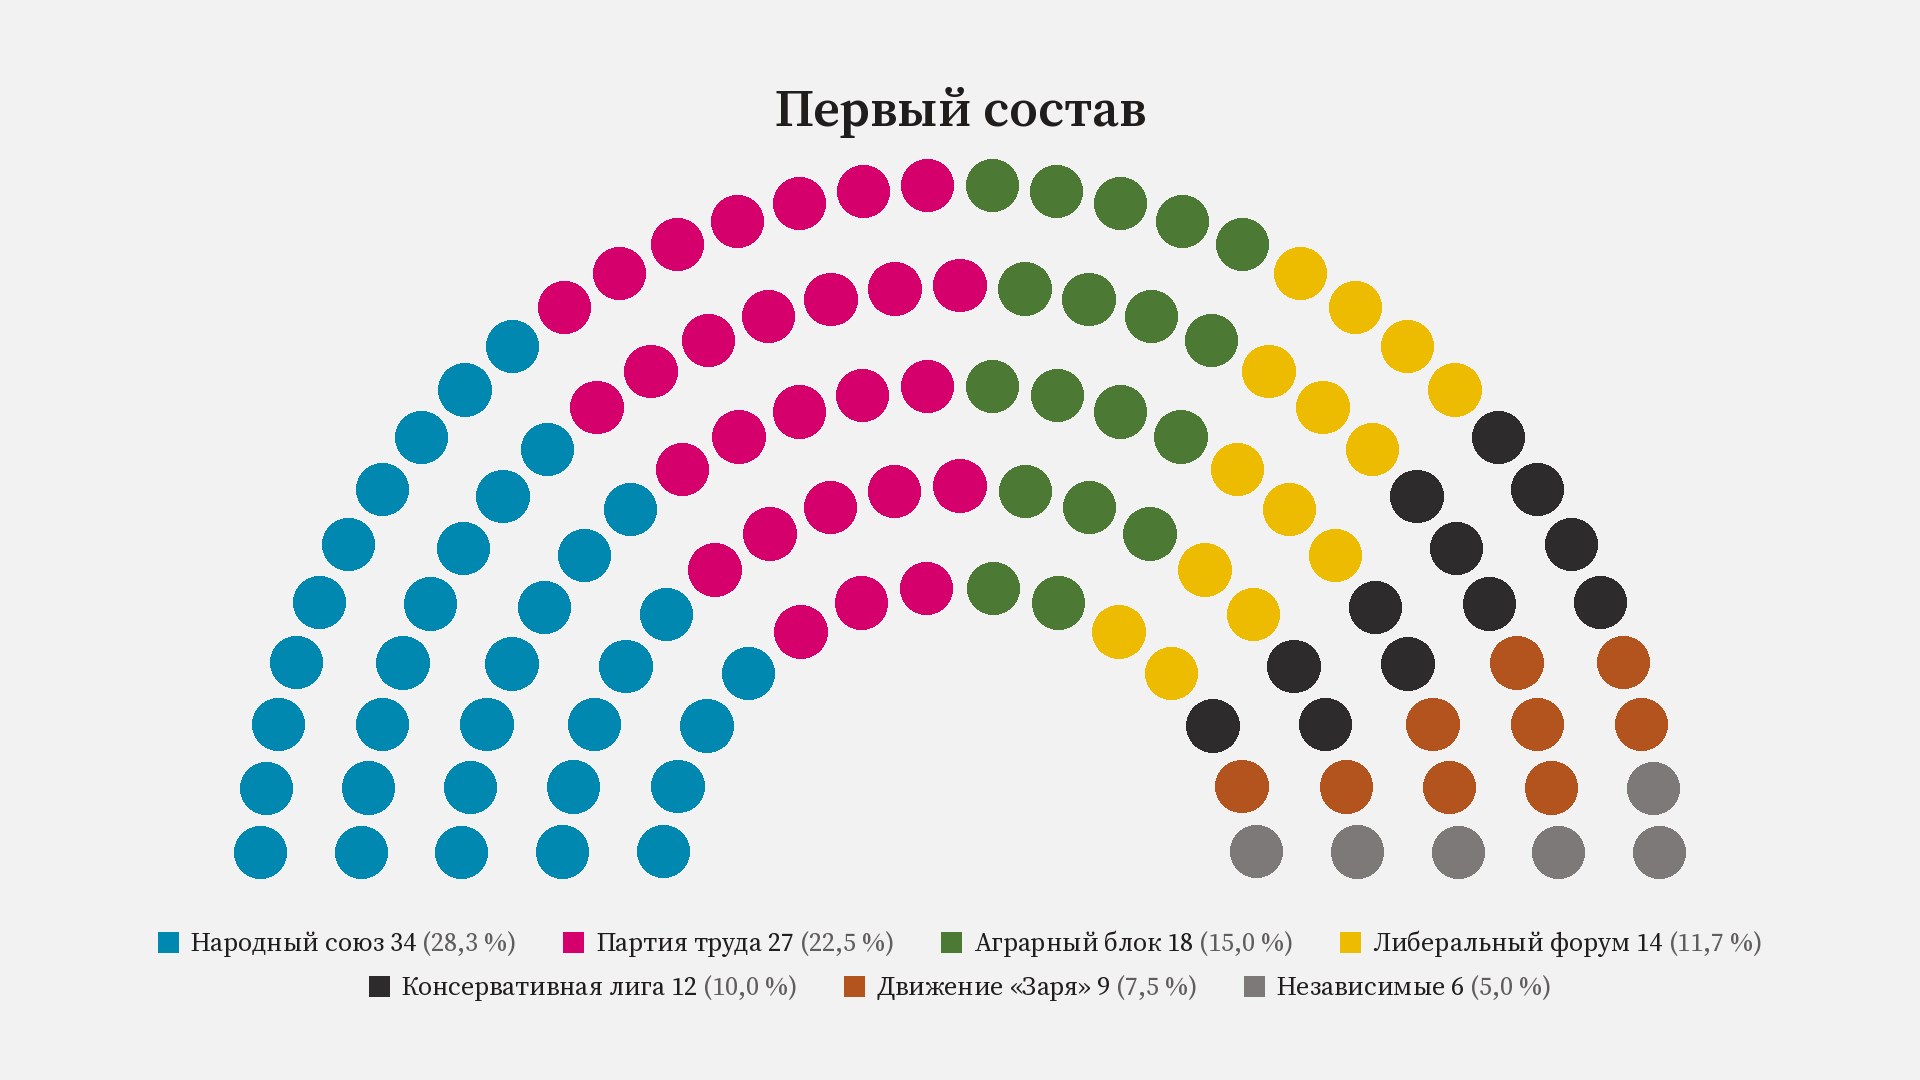
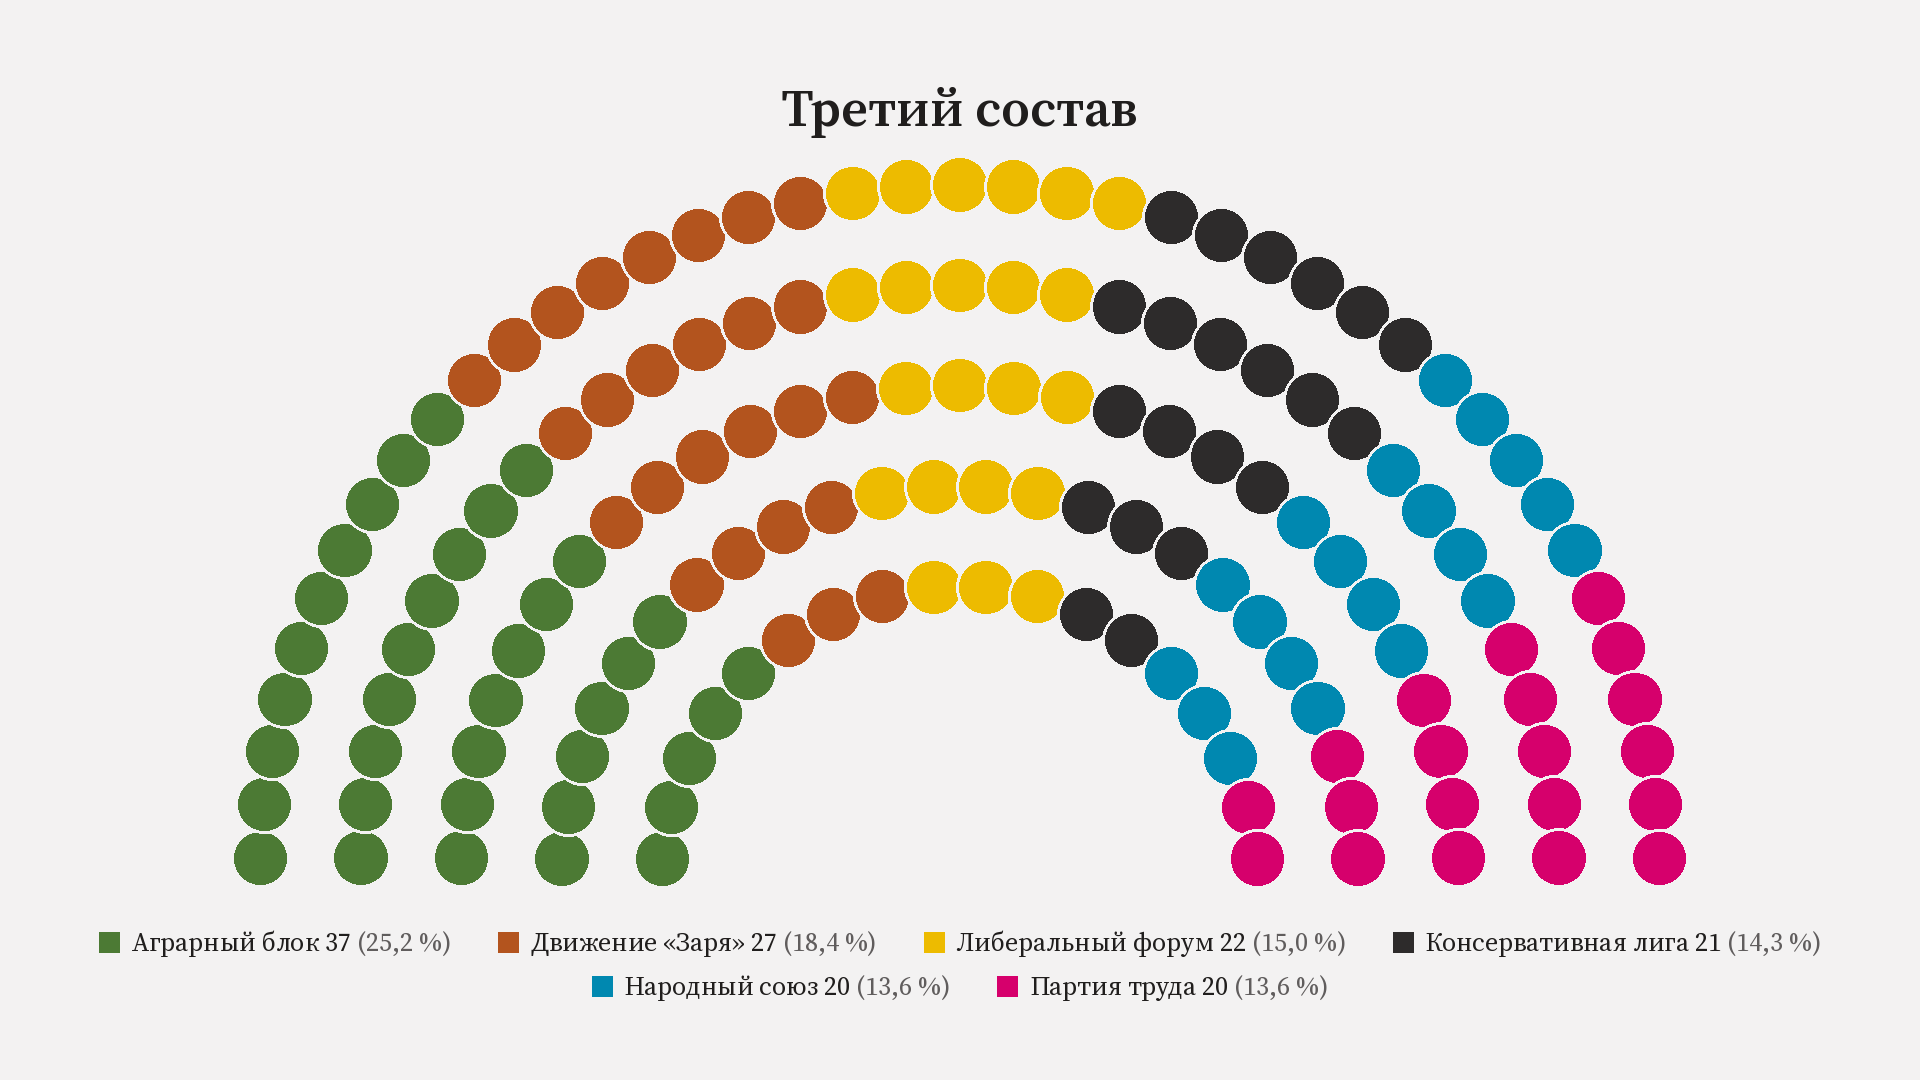
Картинки в README — от нынешней программы, а не от браузерной версии
Снимки главного экрана, архивного созыва и диалога экспорта остались от
браузерной версии: 120 мест, кнопка «Экспорт в PNG» в шапке, которой больше
нет, меню «Файл», про которое сам же README пишет, что оно убрано. Кнопки
«Карта» на них, разумеется, тоже нет. Показывать это как нынешний вид
программы — вводить в заблуждение, а снять новые здесь не на чем: Flutter
не поднимается без экрана.

Поэтому устаревшие сняты с публикации, а вместо них — то, что программа
выгружает сама и что можно честно получить прямо сейчас: карта с итогами по
округам и схема зала на 147 мест. Снимки справочника партий, диалога партии
и подбора цвета отвечают нынешнему виду и остаются.

Claude-Session: https://claude.ai/code/session_016vGhy237KyDUFbjhruUn9C

Changed region(s): [[0.125, 0.0917, 0.875, 0.825], [0.0312, 0.8556, 0.9375, 0.9472]]

diff --git a/README.md b/README.md
@@ -4,7 +4,10 @@
 игре: справочник партий, выборы по округам, распределение 147 мест,
 полукруглая схема зала, карта архипелага, история созывов и экспорт в PNG.
 
-![Главный экран](docs/screenshots/main.png)
+![Итоги выборов по округам](docs/screenshots/map-export.png)
+
+*Карта, выгруженная самой программой: округа покрашены в цвет победившей
+партии, число мест подписано внутри округа.*
 
 ## Что умеет
 
@@ -48,7 +51,9 @@
   меняется размер палаты.
 - **Созывы** — «Новый созыв» фиксирует текущий состав в истории и открывает
   следующий. Любой прошлый созыв можно открыть, посмотреть и при желании
-  поправить — правки сохраняются в него же. Ошибочно созданный созыв можно
+  поправить — правки сохраняются в него же, но сперва нужно нажать «Править
+  состав»: до этого созыв в истории только читается, и выборы в нём не
+  переиграть. Ошибочно созданный созыв можно
   удалить из истории — крестик у карточки в левой панели (кроме последнего
   оставшегося: без единственного открытого созыва проект не бывает).
 - **Экспорт в PNG** — схема зала в 1920×1080, 2560×1440 или 3840×2160, с
@@ -213,10 +218,14 @@ packaging/windows/
 |---|---|
 | ![Справочник партий](docs/screenshots/parties.png) | ![Правка партии](docs/screenshots/party-dialog.png) |
 | Справочник партий | Создание и правка партии |
-| ![Архивный созыв](docs/screenshots/archive.png) | ![Экспорт](docs/screenshots/export-dialog.png) |
-| Просмотр истории | Экспорт в PNG |
+| ![Свой цвет](docs/screenshots/custom-color-picker.png) | ![Экспорт схемы зала](docs/screenshots/export-result.png) |
+| Подбор своего цвета | Схема зала, выгруженная в PNG |
 
-Пример готовой картинки: [`docs/screenshots/export-result.png`](docs/screenshots/export-result.png).
+Снимков главного экрана и карты в репозитории нет намеренно: прежние сняты
+с браузерной версии на 120 мест, и показывать их как нынешний вид программы
+значило бы вводить в заблуждение. Вместо них — то, что программа выгружает
+сама: [схема зала](docs/screenshots/export-result.png) и
+[карта](docs/screenshots/map-export.png).
 
 ## Решения по открытым вопросам ТЗ
 
